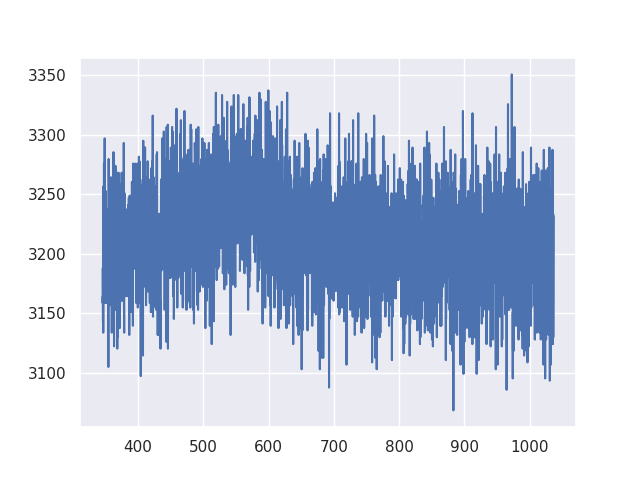
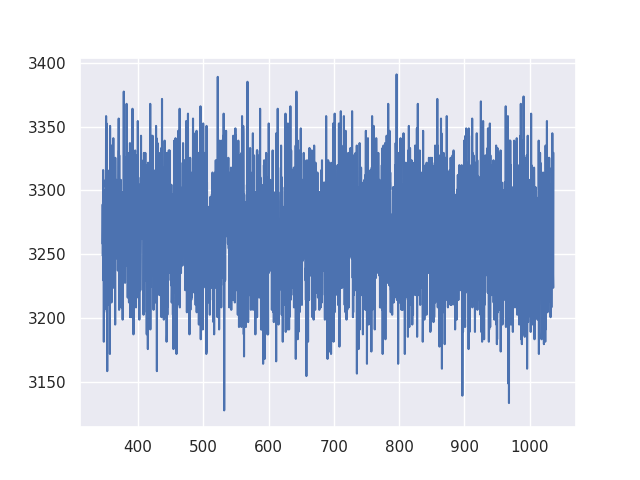
#

diff --git a/testSpectro2.py b/testSpectro2.py
@@ -1,0 +1,51 @@
+import seabreeze.spectrometers as sb
+import matplotlib.pyplot as plt
+import numpy as np
+
+def perform_calibration(spec):
+    # Realize a calibração aqui, ajustando os parâmetros conforme necessário
+    # Isso pode envolver a correção da resposta espectral, a influência da iluminação, etc.
+
+    # Exemplo: Normalizar o espectro para uma referência conhecida
+    reference_spectrum = spec.intensities()
+    normalized_spectrum = [intensity / max(reference_spectrum) for intensity in reference_spectrum]
+
+    return normalized_spectrum
+
+def measure_target(spec):
+    # Obter espectro do alvo
+    wavelengths = spec.wavelengths()
+    spectrum = spec.intensities()
+
+    # Realizar a correção usando os valores de calibração
+    calibrated_spectrum = np.divide(spectrum, calibration_spectrum)
+
+    # Plotar o espectro corrigido
+    plt.plot(wavelengths, calibrated_spectrum)
+    plt.title('Espectro do Alvo Calibrado')
+    plt.xlabel('Comprimento de Onda (nm)')
+    plt.ylabel('Intensidade Calibrada')
+    plt.show()
+
+# Encontrar e inicializar o espectrômetro
+devices = sb.list_devices()
+if not devices:
+    print("Nenhum espectrômetro encontrado.")
+    exit()
+
+spec = sb.Spectrometer(devices[0])
+spec.integration_time_micros(10000)  # Ajustar o tempo de integração conforme necessário
+
+# Calibrar o espectrômetro
+calibration_spectrum = perform_calibration(spec)
+
+# Medir alvo claro
+print("Medindo alvo claro:")
+measure_target(spec)
+
+# Medir alvo escuro
+print("Medindo alvo escuro:")
+measure_target(spec)
+
+# Desconectar o espectrômetro
+spec.close()

diff --git a/testSpec.py b/testSpec.py
@@ -1,17 +1,18 @@
 from seabreeze.spectrometers import Spectrometer, list_devices
 import seaborn as sns
 import matplotlib.pyplot as plt
+import numpy as np
 
 devices = list_devices()
 print(devices)
 spec = Spectrometer.from_first_available()
 
-spec.integration_time_micros(20000)
+signal_spectrum = spec.spectrum(correct_dark_counts=True, correct_nonlinearity=True)
 
-wavelengths = spec.wavelengths()
+wavelengths = signal_spectrum.wavelengths()
 print(wavelengths)
 
-intensities = spec.intensities()
+intensities = signal_spectrum.intensities()
 print(intensities)
 
 sns.set()
